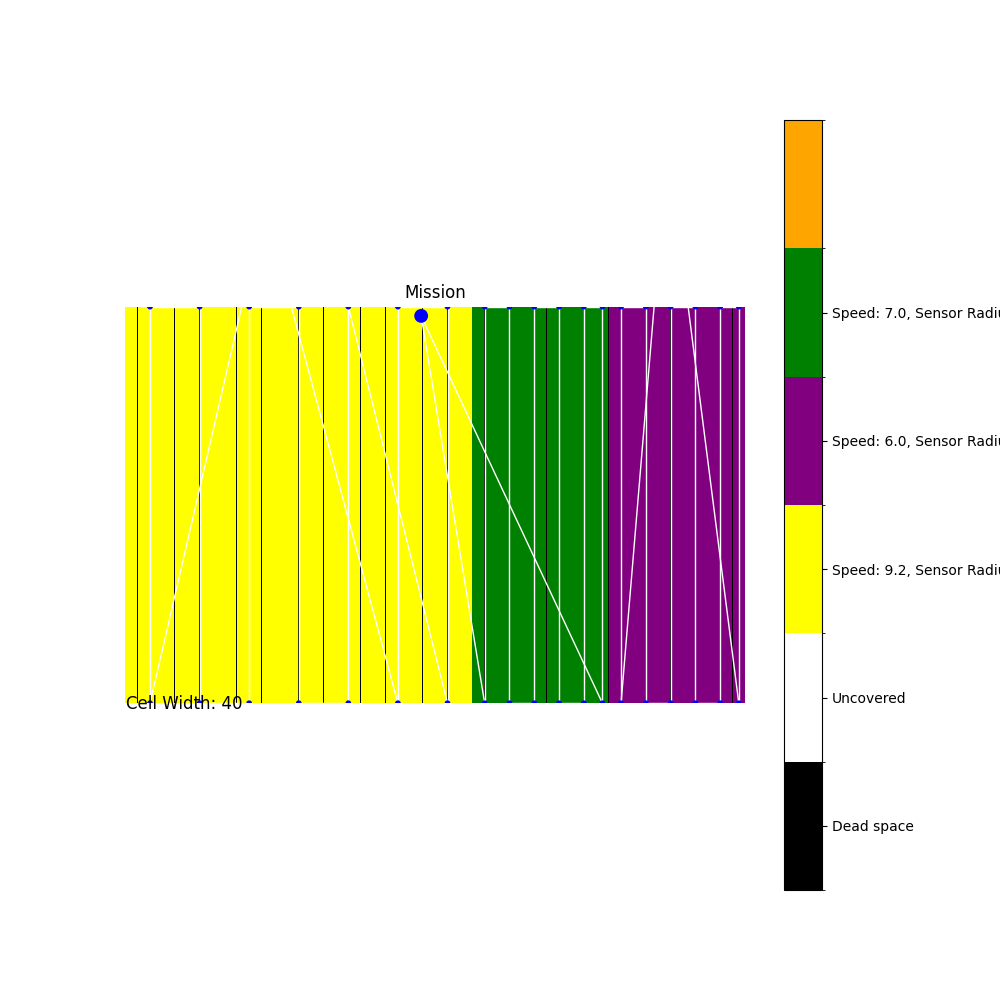
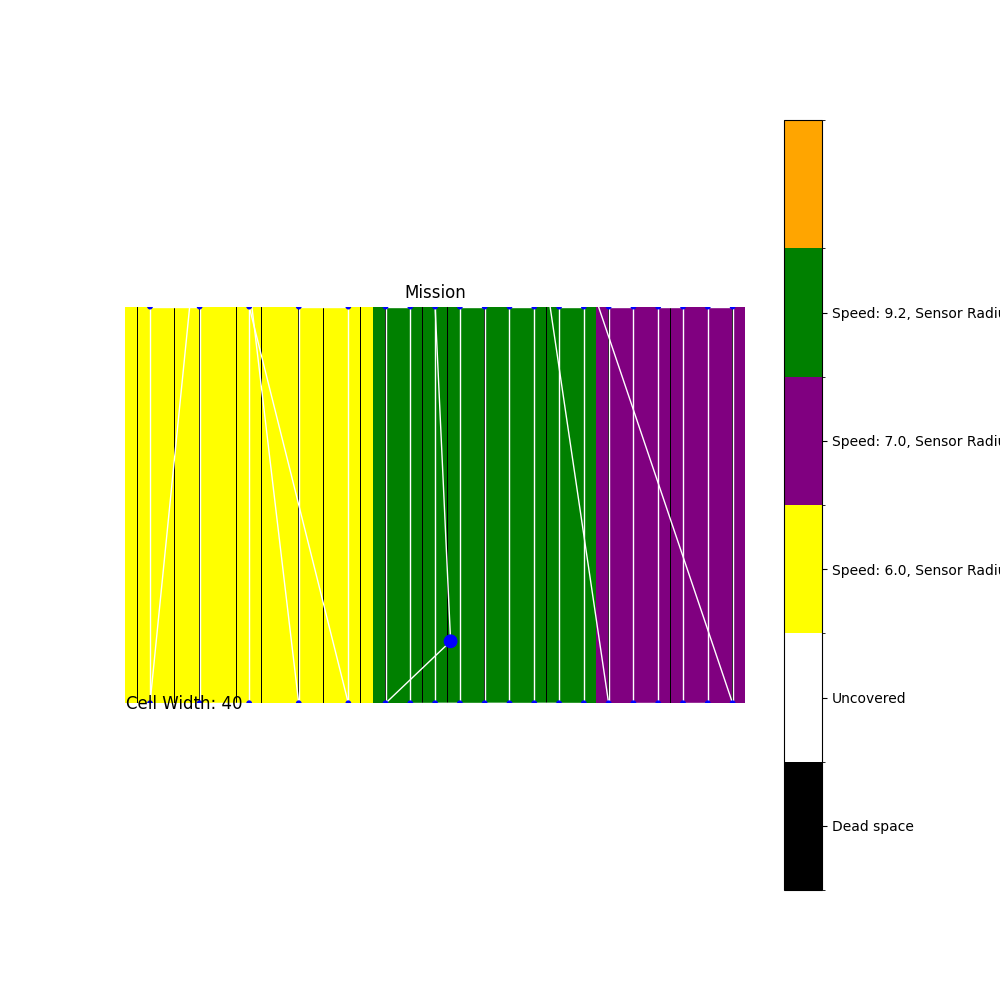
UUVs now start at correct location in survey area.

diff --git a/py/HARMONY/MOOSHandler.py b/py/HARMONY/MOOSHandler.py
@@ -180,6 +180,7 @@ class MOOSHandler:
             width1 = int(self.survey_area.width / self.gcd)
             grid_data = np.ones((height1, width1), dtype=int)
 
+            # Offset vehicle positions for algorithm
             for uav in self.available_uavs.values():
                 uav.position = (uav.position[0] - self.survey_area.position[0], uav.position[1] - self.survey_area.position[1])
 
@@ -222,8 +223,10 @@ class MOOSHandler:
         self.grid_width = int(self.survey_area.width / self.gcd)
         self.grid_data = ml.resize_mission_layout(ml.mission_area_2, self.grid_width, self.grid_height)
 
+        # Offset vehicle positions for algorithm
         for vehicle in self.available_vehicles.values():
-            vehicle.postition = (vehicle.position[0] - self.survey_area.position[0], vehicle.position[1] - self.survey_area.position[1])
+            vehicle.position = (vehicle.position[0] - self.survey_area.position[0], vehicle.position[1] - self.survey_area.position[1])
+            print(self.survey_area.position)
 
         # Assign areas to vehicles using allocation algorithm
         vehicle_assignments = generate_assignments(list(self.available_vehicles.values()), self.grid_data,
@@ -263,39 +266,6 @@ class MOOSHandler:
             print(f"SENDING {waypoints_str} to {wpt_var}")
             self.notify(wpt_var, waypoints_str)
 
-            # color = colors[count % len(colors)]  # for waypoint color
-
-    # def assign_waypoints_and_notify_uuvs(self):
-    #     # Create a 2d array of 1's for vehicles in survey area. '1' is unassigned space
-    #     height = int(self.survey_area.height / self.gcd)
-    #     width = int(self.survey_area.width / self.gcd)
-    #     grid_data = np.ones((height, width), dtype=int)
-    #
-    #     # Assign areas to vehicles using allocation algorithm
-    #     vehicle_assignments = generate_assignments(list(self.available_vehicles.values()), grid_data, show_graph=True)
-    #     print("Vehicle Assignments:", vehicle_assignments)
-    #
-    #     # Notify MOOSDB with the waypoint updates
-    #     for count, (name, assignment) in enumerate(vehicle_assignments.items()):
-    #         # assignment.reposition();
-    #         # color = colors[count % len(colors)]     # for waypoint color
-    #         points = Points(assignment, self.survey_area.position[0], self.survey_area.position[1])
-    #         print(f"current vehicle: {name}, waypoints: {points.string()} ")
-    #         msg_key = f"{name}_WAYPOINTS"
-    #         color = self.available_vehicles[name].color
-    #         wpt_var = f"{name}_WPT_UPDATE"
-    #         print(f"SENDING {points.string()} to {wpt_var}")
-    #         self.notify(wpt_var, points.string())
-    #
-    #         if len(assignment) == 0:  # No waypoint assigned because survey area is too large
-    #             print("Waypoint notifications not sent because vehicle area assignment = 0")
-    #             self.notify("VIEW_SEGLIST",
-    #                         f'{points.seglist_string()},label={name}_wpt_survey,active=false')  # removes any prior waypoint visuals
-    #         else:
-    #             self.notify("VIEW_SEGLIST",
-    #                         f'{points.seglist_string()},label={name}_wpt_survey,edge_color={color},edge_size=2')  # Displays waypoints before deployment
-    #             # CHANGE THIS LINE BELOW
-    #             self.notify(wpt_var, points.string())
 
     def visualizeGrid(self, surveyArea, vehicleList):
         surveyArea = surveyArea
